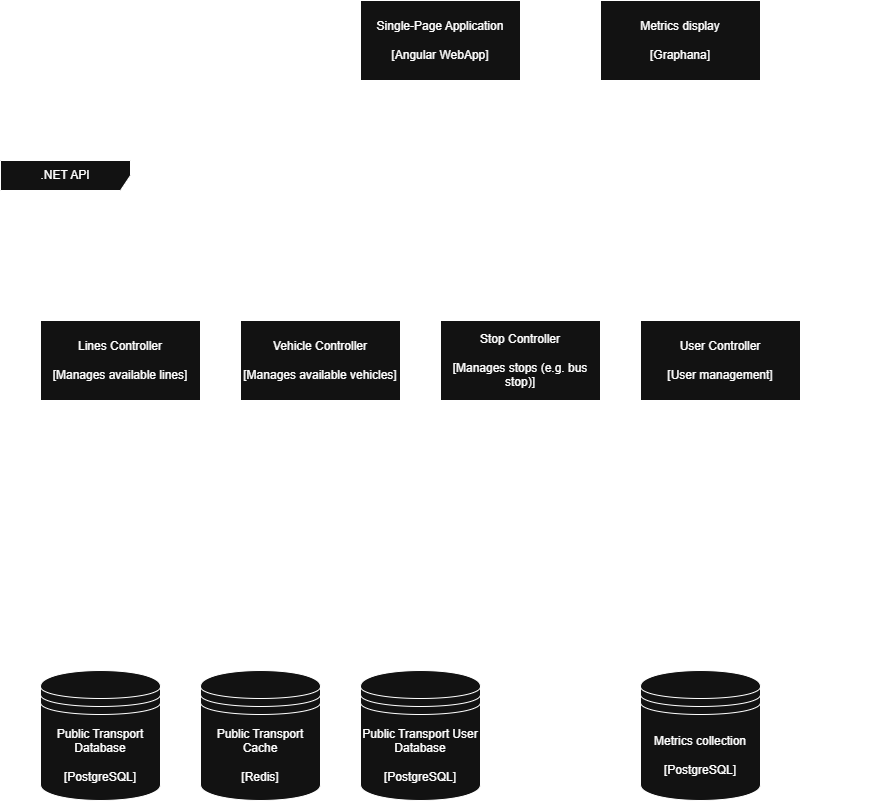
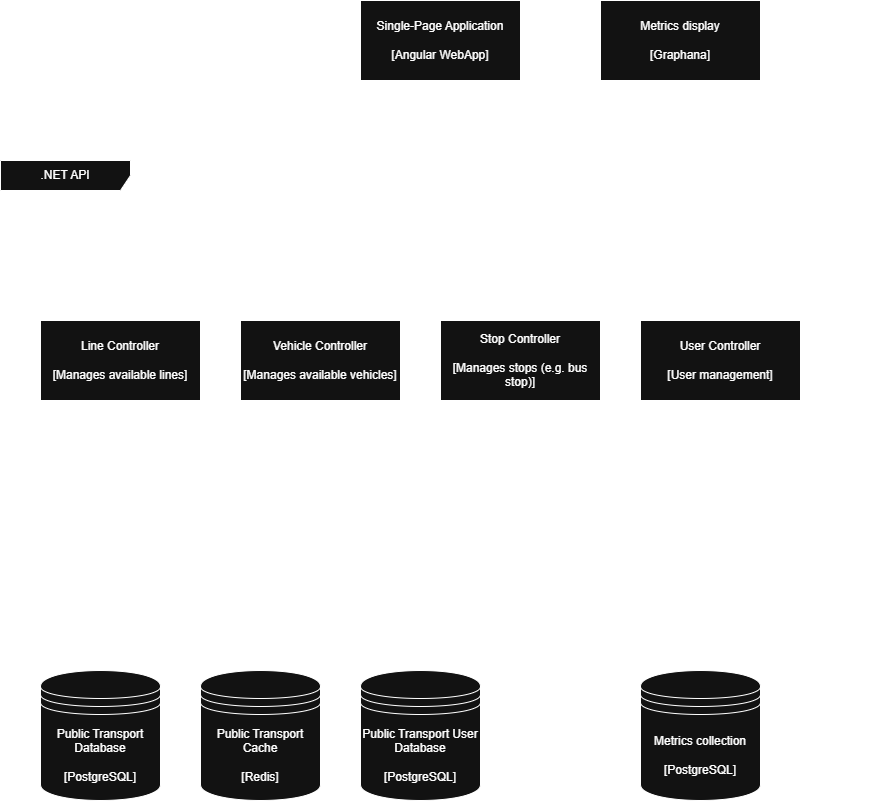
Line controller diagram

diff --git a/docs/SystemArchitecture.md b/docs/SystemArchitecture.md
@@ -27,3 +27,9 @@
 <img src="images/Entities.png" alt="Entities">
 
 <br/><br/><br/>
+
+### Line Controller
+
+<img src="images/Component_LineController.png" alt="Line Controller Diagram">
+
+<br/><br/><br/>